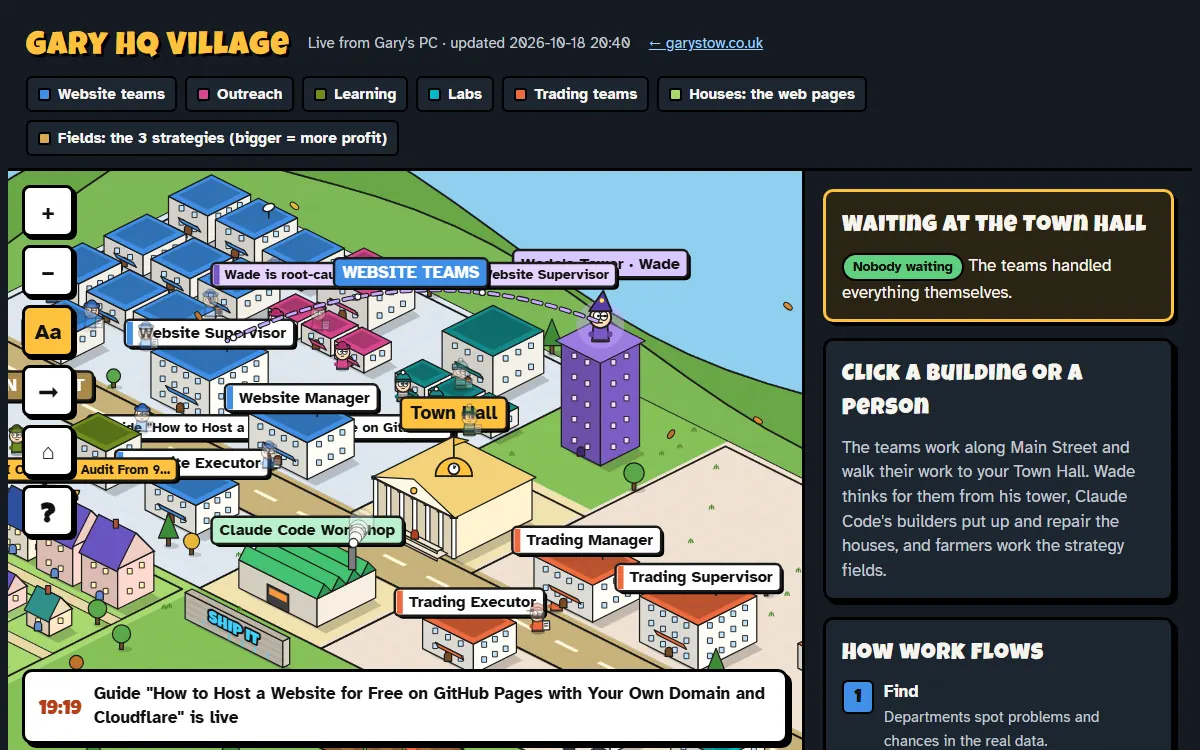
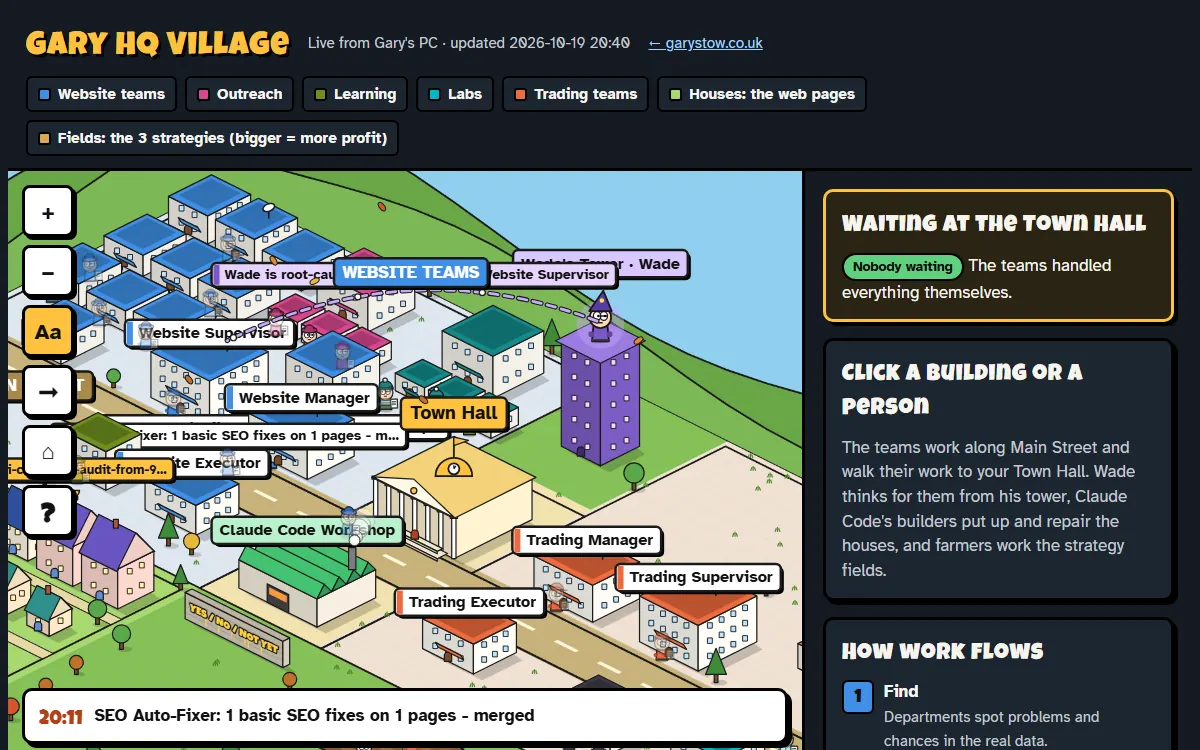
Village: refresh the public data (2026-10-19 20:40)

diff --git a/village/index.html b/village/index.html
@@ -4,7 +4,7 @@
 <meta charset="utf-8">
 <meta name="viewport" content="width=device-width, initial-scale=1, viewport-fit=cover">
 <title>Gary HQ Village: watch my AI teams at work — Gary Stow</title>
-<meta name="description" content="My real AI automation teams, drawn as a cartoon village. Website, trading, outreach, learning and research lab teams find problems, Wade thinks, Claude Code builds, and work waits at the Town Hall for my decision.">
+<meta name="description" content="My real AI automation teams drawn as a cartoon village: teams find problems, Wade thinks, Claude Code builds, and work waits at the Town Hall for my decision.">
 <meta name="robots" content="index, follow">
 <link rel="canonical" href="https://garystow.co.uk/village/">
 <meta property="og:type" content="website">
@@ -192,6 +192,7 @@ const BUILDINGS = [
   ["layout","Layout Guard","web","dept",3,7.6,2,2.2,1.2,"Opens every page in a hidden browser before and after a change and blocks anything that breaks the look."],
   ["audit","System Auditor","web","dept",5.4,7.6,2,2.2,1.4,"Checks every 30 minutes that each automation really did its job."],
   ["fixer","SEO Auto-Fixer","web","dept",3,10.9,2,2.2,1.4,"Fixes basic SEO by itself every evening and merges it: alt text, long descriptions, missing links.",1],
+  ["guides","Guides Library","web","dept",12.4,6.6,2.4,2.4,2.4,"Step-by-step guides on AI tools, PPC and the systems Gary built. Every guide passes the automatic checks (Guide Standard, copied wording, screenshots, links, topic list), then waits here for Gary to read and approve it. Approved guides go live by themselves, up to 4 a week, at least 2 days apart.",1],
   ["tsup","Trading Supervisor","trade","sup",34,9.5,3,3,2.6,"Triages everything the trading departments raise and root-causes it before you see it. Wade does the thinking."],
   ["tman","Trading Manager","trade","man",28.8,10.3,3,2.4,2.1,"Your one contact for trading. Walks what needs you to the Town Hall and fills the trading dashboard."],
   ["texe","Trading Executor","trade","exe",28.8,16.2,2.6,2.2,1.7,"Turns an approved YES into action. Code work goes to the Claude Code Workshop on its own branch."],
@@ -267,9 +268,9 @@ const front = id => { if (id.startsWith("field:")) { const f = FIELDS.find(f => 
 // work flows: [from, to, colour, step]
 const FLOWS = [];
 // where each department walks its work (11 Oct 2026: Outreach -> its office -> Town Hall; Listening Post -> Content Writer)
-const destOf = b => b.team === "web" ? "wsup" : b.team === "obs" ? "hall" : b.team === "out" ? (b.id === "outr" ? "hall" : "outr") : b.team === "learn" ? "writer" : b.team === "labs" ? (b.id === "lab" ? "tsup" : "lab") : "tsup";
+const destOf = b => b.id === "guides" ? "hall" : b.team === "web" ? "wsup" : b.team === "obs" ? "hall" : b.team === "out" ? (b.id === "outr" ? "hall" : "outr") : b.team === "learn" ? "writer" : b.team === "labs" ? (b.id === "lab" ? "tsup" : "lab") : "tsup";
 buildings.filter(b => b.role === "dept").forEach(b => FLOWS.push([b.id, destOf(b), COL[b.team], 0]));
-FLOWS.push(["wsup","wman",COL.web,2],["tsup","tman",COL.trade,2],["wman","hall",COL.hall,3],["tman","hall",COL.hall,3],
+FLOWS.push(["writer","guides",COL.web,1],["wsup","wman",COL.web,2],["tsup","tman",COL.trade,2],["wman","hall",COL.hall,3],["tman","hall",COL.hall,3],
   ["hall","wexe",COL.web,5],["hall","texe",COL.trade,5],["wexe","cc",COL.web,6],["texe","cc",COL.trade,6],["cc","site",COL.web,7],["cc","field:game",COL.trade,7]);
 
 function zoneOf(x, y) {
